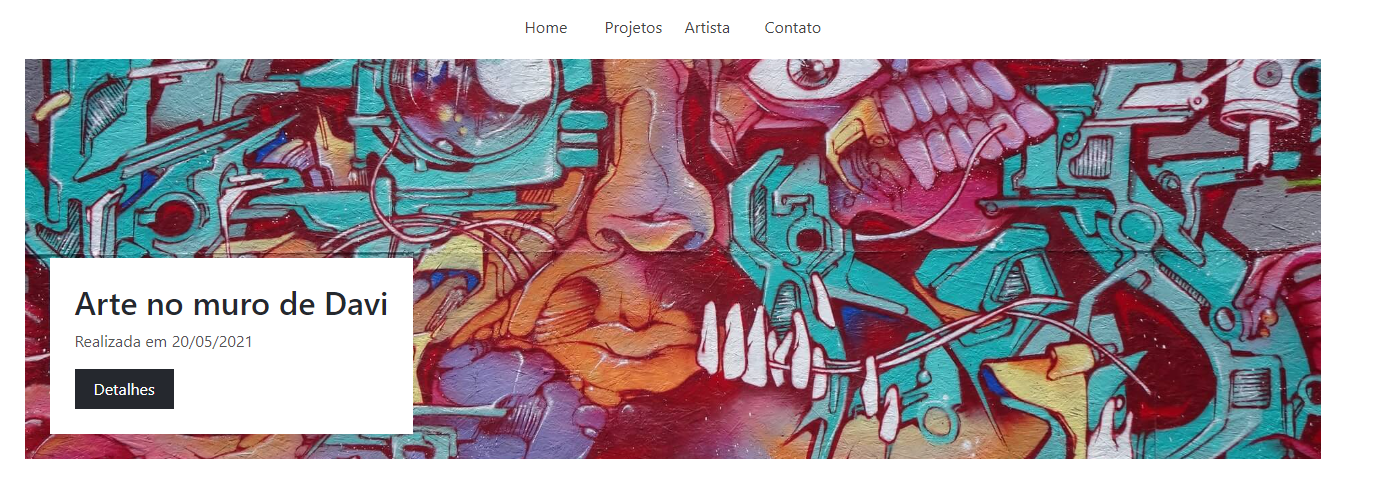
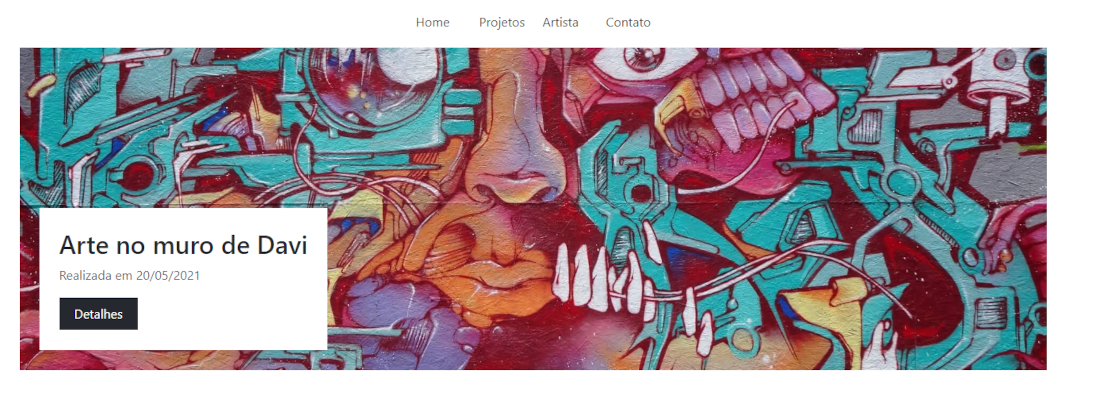
redimensionando a imagem do acordion

diff --git a/index.html b/index.html
@@ -170,7 +170,7 @@
 
       <div class="row pt-5">
         <div class="col-12 col-md-8 text-center align-items-center mx-auto educacao">
-          <h2>Education</h2>
+          <h2>Educação</h2>
           <p class="texto-profissional">Analise e Desenvolvimento de Sistemas - Uninter University
             Educational | 2023/2025</p>
             <p class="texto-profissional">Técnico em Programação - SenacTech | 2023/2024</p>
@@ -287,7 +287,7 @@
     <section class="row mt-5" id="contact">
         
         <div class="col-8 col-md-6 col-sm-12  align-items-center mx-auto" id="form">
-            <h2>Contact me:</h2>
+            <h2>Contate me:</h2>
             <form id="formulario">
                 <div class="mb-3">
                     <label for="from_name" class="form-label" >Nome:</label>

diff --git a/assets/script.js b/assets/script.js
@@ -20,15 +20,15 @@ document.getElementById('formulario').addEventListener('submit', function(event)
 
   emailjs.sendForm(serviceID, templateID, this)
     .then(() => {
-      btn.value = 'seending message';
-      alert('Message submit!');
+      btn.value = 'enviando mensagem';
+      alert('Mensagem enviada');
 
       document.getElementById('depoimento').value = '';
       document.getElementById('from_name').value = '';
       document.getElementById('from_email').value = '';
-      document.getElementById('button').value = 'seending new message';  
+      document.getElementById('button').value = 'enviar nova mensagem';  
     }, (err) => {
-      btn.value = 'Send Email';
+      btn.value = 'Enviar Email';
       alert(JSON.stringify(err));
     });
 });
